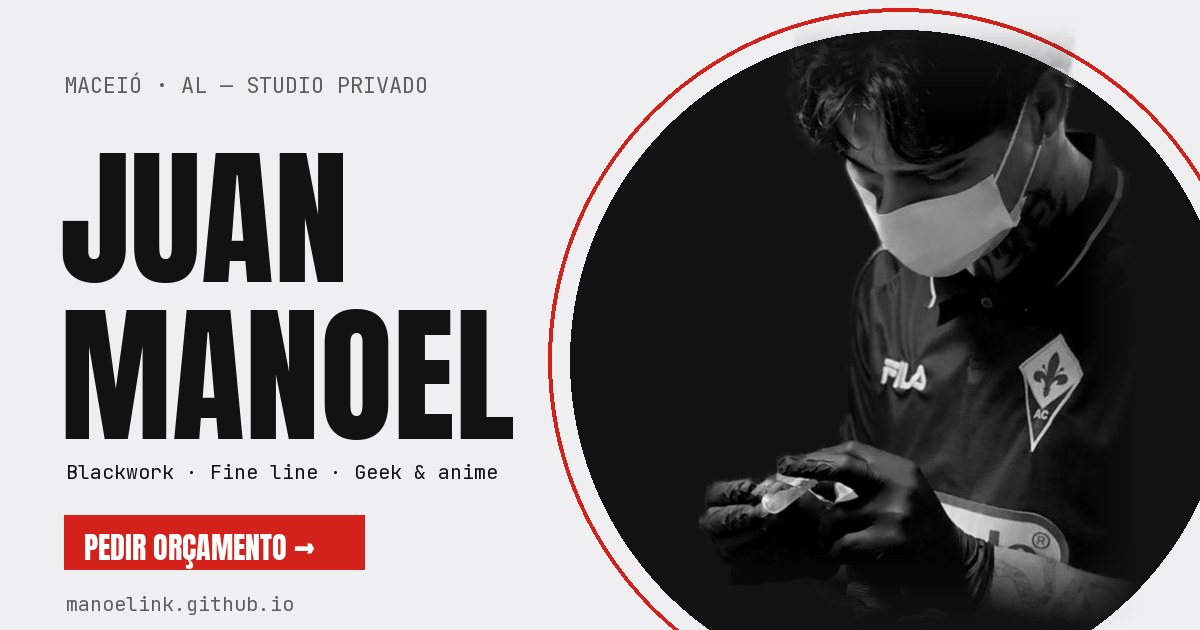
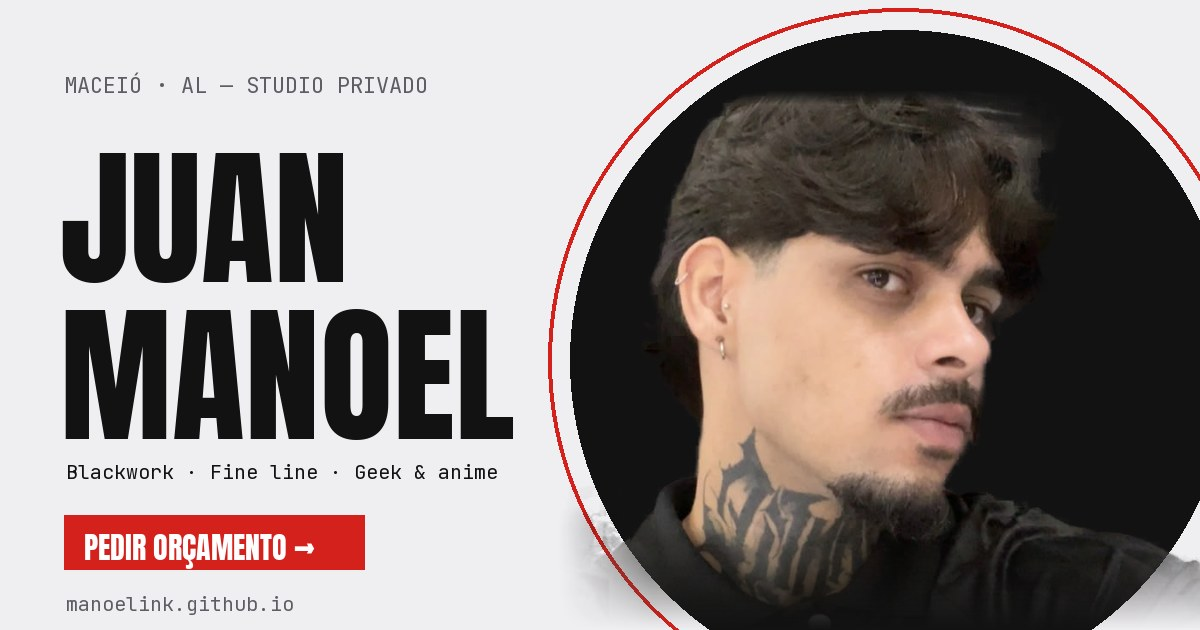
Hero e prévia do link com a foto de perfil nova do Manoel, colorida

Changed region(s): [[0.4625, 0.0603, 1.0, 0.9952]]

diff --git a/manoel-ink/style.css b/manoel-ink/style.css
@@ -693,11 +693,20 @@ img.hero-photo { left: 6%; width: 88%; height: 96%; max-height: none; object-fit
 .faq-map { width: 100%; height: 260px; border: 1.5px solid var(--ink); filter: grayscale(1) contrast(1.05); transition: filter .5s; }
 .faq-map:hover { filter: none; }
 
-/* hero: foto do Manoel em P&B */
-img.hero-photo { filter: grayscale(1) contrast(1.08) brightness(1.02) drop-shadow(0 30px 40px rgba(0,0,0,.35)); }
+/* hero: foto de perfil do Manoel (colorida, a pedido dele) */
+img.hero-photo { filter: drop-shadow(0 30px 40px rgba(0,0,0,.35)); object-position: 50% bottom; }
 
 /* trabalhos que levam pro post do Instagram */
 a.work { text-decoration: none; color: inherit; display: block; }
 a.work.featured { display: flex; }
 .work:not(.has-post) .work-media::after { content: "Ampliar ⤢"; }
 .cursor.label span { font-size: 10px; text-align: center; line-height: 1.2; padding: 0 6px; }
+
+/* foto de perfil (paisagem): dimensiona pela altura e centraliza o rosto na bola */
+img.hero-photo {
+  width: auto; max-width: none; height: min(66svh, 600px);
+  left: 64%; margin-left: calc(min(66svh, 600px) * -0.6); bottom: 0;
+}
+@media (max-width: 860px) {
+  img.hero-photo { height: min(78vw, 430px); left: 55%; margin-left: calc(min(78vw, 430px) * -0.6); width: auto; }
+}
